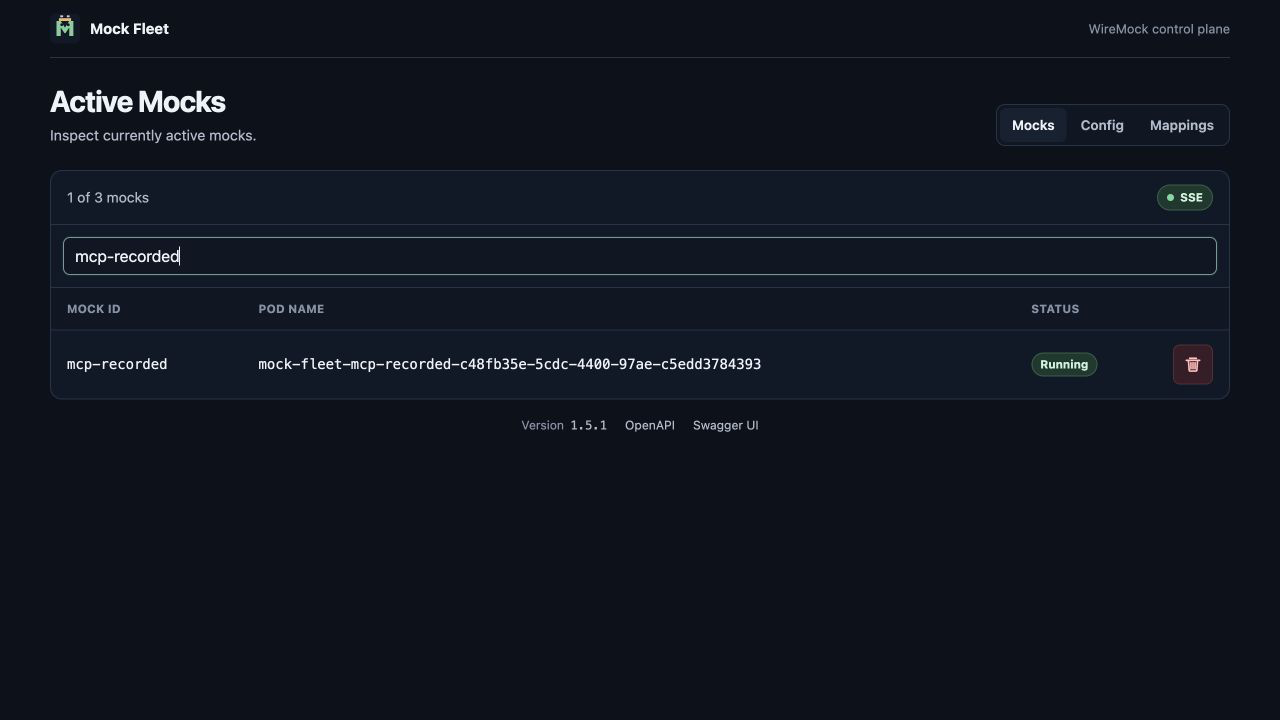
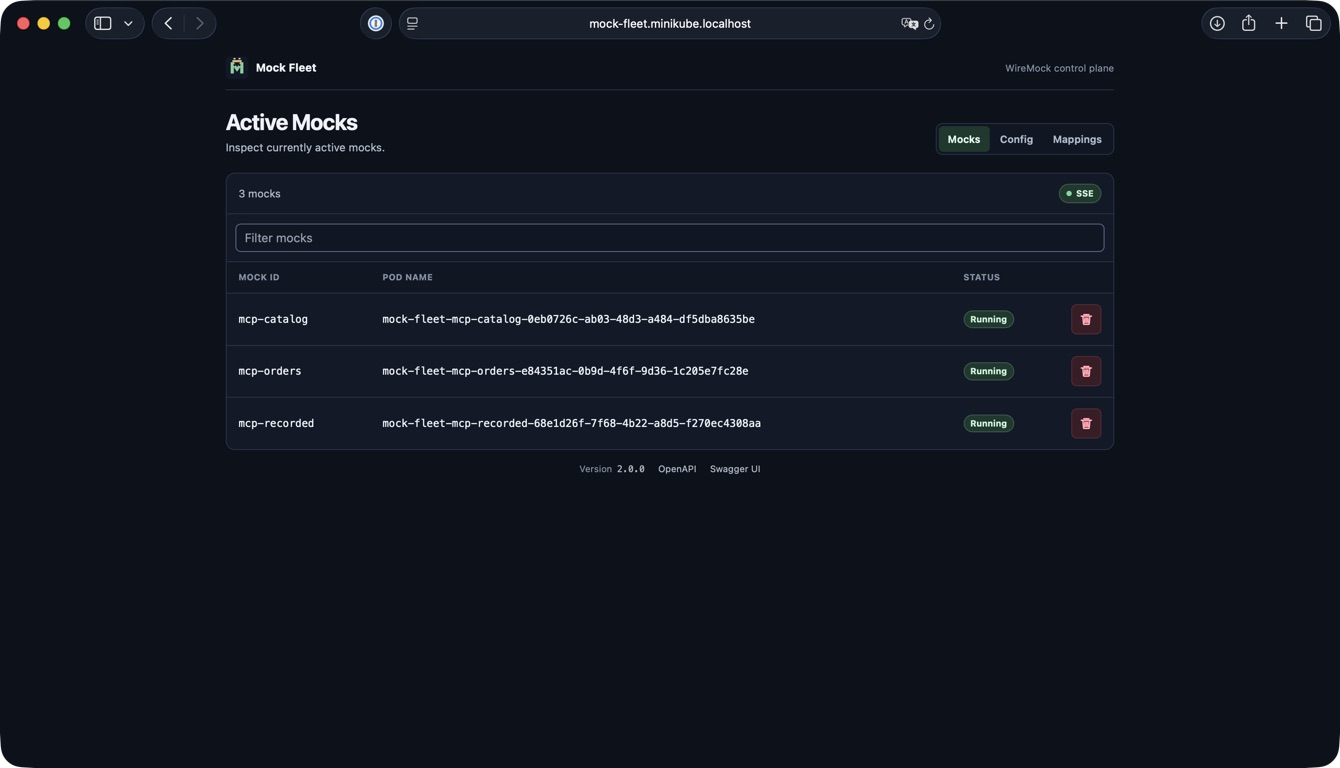
docs: refresh screenshots and list supported mock kinds

diff --git a/README.md b/README.md
@@ -11,6 +11,10 @@ It is deployed as three core services and one optional service:
 
 ## Main Functions
 
+### Supported Mock Kinds
+
+- **WireMock** — the only supported mock kind currently; supports 3.x+.
+
 ### Active Mocks
 
 Inspect currently active mocks.
